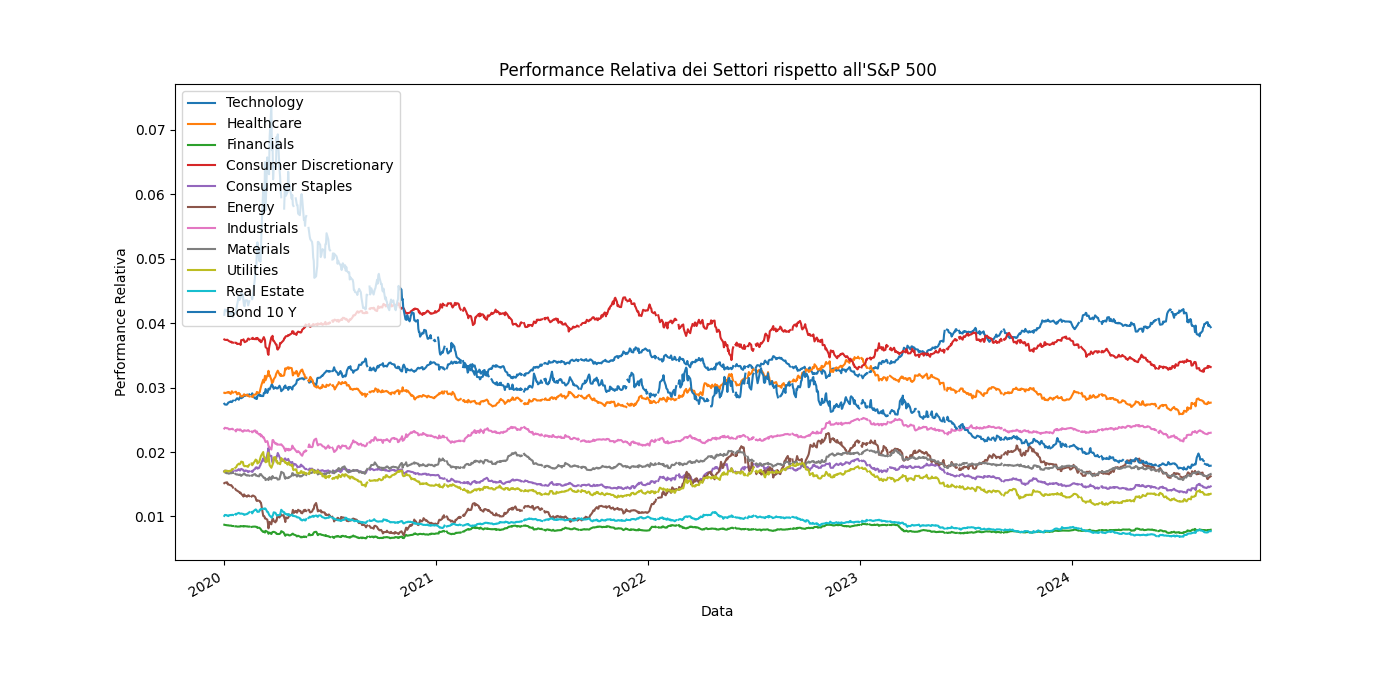
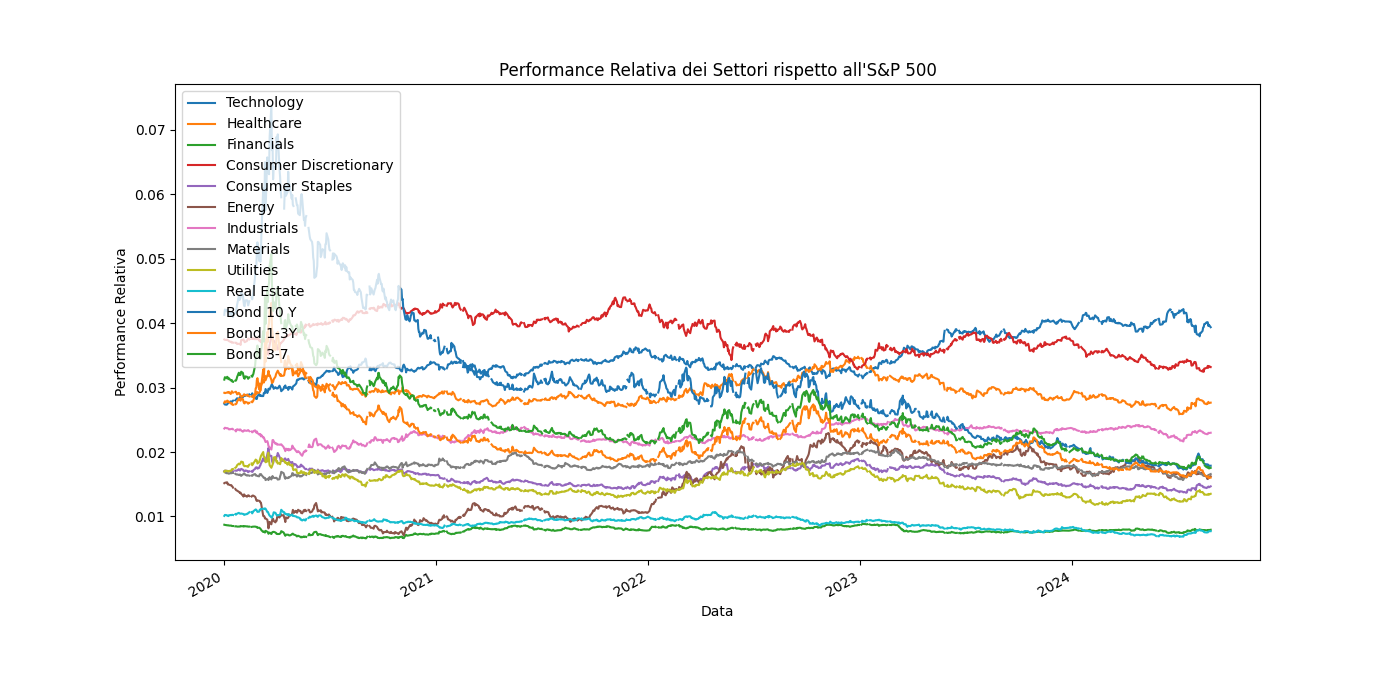
update project

Changed region(s): [[0.1229, 0.42, 0.86, 0.69]]

diff --git a/PRJ-Portfolio/portf_rotazion.py b/PRJ-Portfolio/portf_rotazion.py
@@ -22,7 +22,9 @@ sector_etfs = {
     'Materials': 'XLB',
     'Utilities': 'XLU',
     'Real Estate': 'XLRE',
-    'Bond 10 Y':'US10.MI'
+    'Bond 10 Y':'US10.MI',
+    'Bond 1-3Y':'US13.MI',
+    'Bond 3-7' :'US37.MI'
 }
 
 # Scarica i dati storici
@@ -53,10 +55,16 @@ today = datetime.today().strftime('%Y-%m-%d')
 
 # Scarica i dati storici
 data = yf.download(tickers, start='2024-01-01', end=today, group_by='ticker',progress=False)
-#print(data.to_string())
+print(data.to_string())
 # Funzione per calcolare il volume medio
 def calculate_average_volume(ticker_data):
     return ticker_data['Volume'].mean()
+
+def delta_volume(ticker_data):
+  print(f"Ultimo valore: {ticker_data['Volume'].iloc[-1]}")
+  print(f"Primo valore: {ticker_data['Volume'].iloc[0]}")
+  print(ticker_data['Volume'].iloc[-1] - ticker_data['Volume'].iloc[0])
+  return ticker_data['Volume'].iloc[-1] - ticker_data['Volume'].iloc[0]
 
 # Funzione per calcolare il rate of change (ROC) dei volumi
 def calculate_volume_roc(ticker_data):
@@ -71,13 +79,14 @@ def getShortNameTicker(ticker):
 results = {}
 for ticker in tickers:
     descr = getShortNameTicker(ticker)
+    delta_volume = delta_volume(data[ticker])
     avg_volume = calculate_average_volume(data[ticker])
     volume_roc = calculate_volume_roc(data[ticker])
-    results[ticker] = {'average_volume': avg_volume, 'volume_roc': volume_roc, 'descr':descr}
+    results[ticker] = {'average_volume': avg_volume, 'volume_roc': volume_roc, 'descr':descr, 'delta_volume':delta_volume}
 
 # Ordina i settori per volume medio
 sorted_results = sorted(results.items(), key=lambda x: x[1]['volume_roc'], reverse=True)
 
 # Stampa i risultati
 for sector, metrics in sorted_results:
-    print(f"Settore: {sector} - {metrics['descr']}, Volume medio: {metrics['average_volume']}, ROC dei volumi: {metrics['volume_roc']:.2f}%")
+    print(f"Settore: {sector} - {metrics['descr']}, Volume medio: {metrics['average_volume']}, Delta Volume: {metrics['delta_volume']}, ROC dei volumi: {metrics['volume_roc']:.2f}%")
